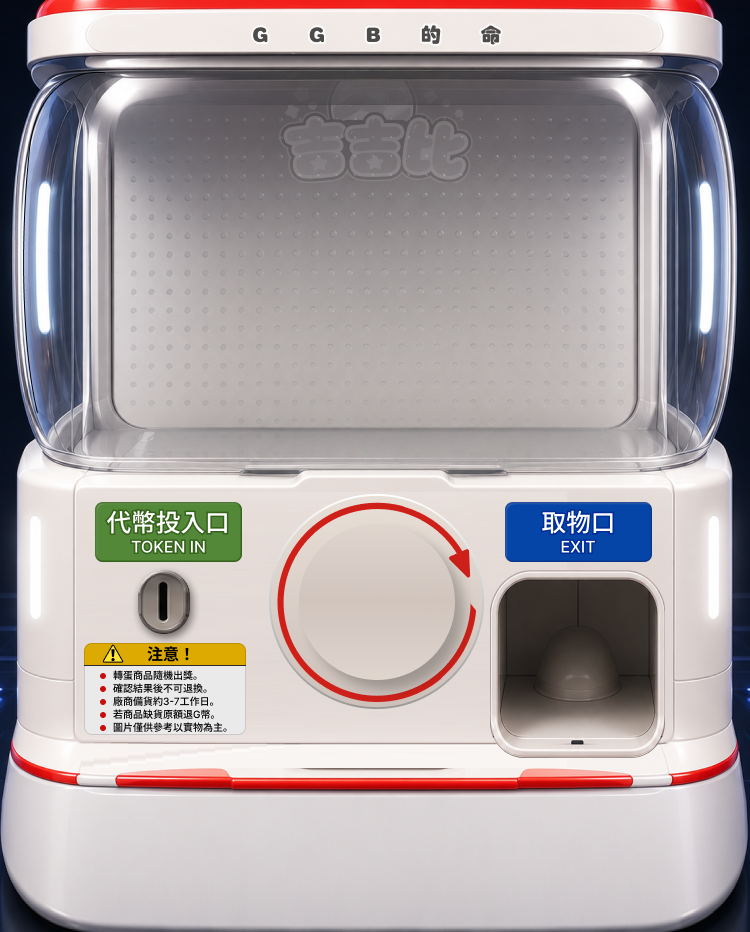
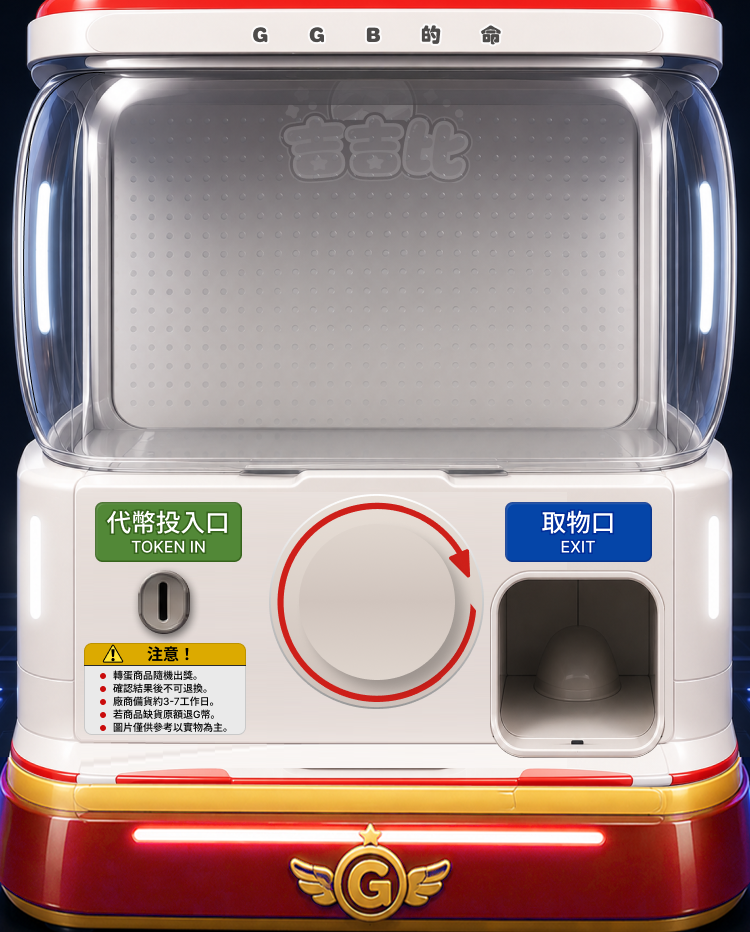
feat: 新機台圖給 gacha_mode2 並移除機台三顆按鈕改底部欄；蛋箱商品圖預設顯示、放大、無圓角；卡包輪播位置修正

Changed region(s): [[0.0, 0.809, 1.0, 1.0]]

diff --git a/frontend/components/shop/GachaProductDetail.tsx b/frontend/components/shop/GachaProductDetail.tsx
@@ -27,6 +27,9 @@ interface GachaProductDetailProps {
   onMachineReady?: () => void;
 }
 
+/** 機台本身不畫按鈕的主題 —— 推一下／立即轉蛋／試試看改走頁面底部操作欄 */
+const BUTTONLESS_THEMES = ['gacha_mode2', 'gacha_mode5']
+
 const MACHINE_COMPONENTS: Record<string, React.ComponentType<React.ComponentProps<typeof GachaMachineVisual>>> = {
   gacha_classic: GachaMachineVisual,
   gacha_modern: GachaMachineModern,
@@ -81,7 +84,8 @@ export function GachaProductDetail({ product, prizes, machineTheme, onMachineRea
   const [isPurchaseModalOpen, setIsPurchaseModalOpen] = useState(false);
   const [hasPendingResult, setHasPendingResult] = useState(false);
   const [isMachineLoaded, setIsMachineLoaded] = useState(false);
-  const [isEggBoxImageMode, setIsEggBoxImageMode] = useState(false);
+  // 商品圖預設顯示（老闆指定），點一下收起看蛋箱
+  const [isEggBoxImageMode, setIsEggBoxImageMode] = useState(true);
   const [forceGoldEgg, setForceGoldEgg] = useState(false);
 
   const animTimersRef = useRef<number[]>([]);
@@ -393,13 +397,6 @@ export function GachaProductDetail({ product, prizes, machineTheme, onMachineRea
       className="relative"
       style={{ width: 375, transform: `scale(${scale})`, transformOrigin: 'top center' }}
     >
-      {/* 點擊蛋箱提示 */}
-      <div
-        className="absolute left-1/2 -translate-x-1/2 flex items-center justify-center px-3 rounded-full text-center"
-        style={{ top: 221, height: 20, backgroundColor: 'rgba(0,0,0,0.6)', zIndex: 20, pointerEvents: 'none' }}
-      >
-        <span className="font-medium" style={{ color: '#FFFFFF', fontSize: 12 }}>點擊蛋箱顯示圖片</span>
-      </div>
       <div className="w-full max-w-[750px] mx-auto">
         <div className="relative w-full" style={{ aspectRatio: '750/932' }}>
           {(() => {
@@ -420,29 +417,23 @@ export function GachaProductDetail({ product, prizes, machineTheme, onMachineRea
               />
             );
           })()}
-          {/* 蛋箱圖片切換區 */}
-          <div className="absolute left-1/2 -translate-x-1/2" style={{ top: 42, width: 167, height: 167, zIndex: 20 }}>
-            <div className="relative w-full h-full">
-              <div
-                className="absolute inset-0 cursor-pointer"
-                style={{ opacity: isEggBoxImageMode ? 0 : 1, pointerEvents: isEggBoxImageMode ? 'none' : 'auto', transition: 'opacity 200ms ease-out' }}
-                onClick={() => { if (!product.id) return; setIsEggBoxImageMode(true); }}
+          {/* 蛋箱裡的商品圖：預設就顯示（老闆指定），點一下收起、再點一下又出現。
+              整塊維持可點擊 —— 收起後那層就是「再點一次」的目標，
+              不然圖藏起來之後玩家沒有東西可以點回來。 */}
+          {product.id && (
+            <div
+              className="absolute left-1/2 -translate-x-1/2 cursor-pointer"
+              style={{ top: 46, width: 232, height: 200, zIndex: 20 }}
+              onClick={() => setIsEggBoxImageMode(v => !v)}
+            >
+              <Image
+                src={product.image_url || `/images/item/${product.id.toString().padStart(5, '0')}.jpg`}
+                alt={product.name} fill className="object-contain"
+                style={{ opacity: isEggBoxImageMode ? 1 : 0, transition: 'opacity 200ms ease-out' }}
+                onError={(e) => { const t = e.target as HTMLImageElement; t.srcset = '/images/item.png'; t.src = '/images/item.png'; }}
               />
-              {product.id && (
-                <div
-                  className="absolute inset-0 flex items-center justify-center cursor-pointer"
-                  style={{ opacity: isEggBoxImageMode ? 1 : 0, pointerEvents: isEggBoxImageMode ? 'auto' : 'none', transition: 'opacity 200ms ease-out' }}
-                  onClick={() => setIsEggBoxImageMode(false)}
-                >
-                  <Image
-                    src={product.image_url || `/images/item/${product.id.toString().padStart(5, '0')}.jpg`}
-                    alt={product.name} fill className="rounded-lg object-fill"
-                    onError={(e) => { const t = e.target as HTMLImageElement; t.srcset = '/images/item.png'; t.src = '/images/item.png'; }}
-                  />
-                </div>
-              )}
             </div>
-          </div>
+          )}
         </div>
       </div>
     </div>
@@ -533,7 +524,7 @@ export function GachaProductDetail({ product, prizes, machineTheme, onMachineRea
 
       {/* mode5 的底部操作欄 —— 機台上不畫按鈕（老闆指定），三顆移到這裡。
           版型照盒玩立體機台 blindbox_mode5：左側單抽金額，右側三顆按鈕 */}
-      {machineTheme === 'gacha_mode5' && (
+      {BUTTONLESS_THEMES.includes(machineTheme ?? '') && (
         <div data-testid="bottom-action-bar" className="fixed bottom-0 left-0 right-0 z-40 border-t border-neutral-100 bg-white/90 pb-[env(safe-area-inset-bottom)] shadow-modal backdrop-blur-xl dark:border-neutral-800 dark:bg-neutral-900/90">
           <div className="mx-auto flex h-16 max-w-2xl items-center gap-3 px-4">
             <div className="flex h-full shrink-0 flex-col justify-center pl-1">

diff --git a/frontend/components/shop/GachaMachineMode2.tsx b/frontend/components/shop/GachaMachineMode2.tsx
@@ -1,10 +1,9 @@
 'use client';
 
-import React, { useEffect, useState, useRef, useCallback } from 'react';
+import React, { useEffect, useState, useRef } from 'react';
 import { playSfx, SFX } from '@/lib/sfx';
 import Image from 'next/image';
 import { motion, AnimatePresence } from 'framer-motion';
-import { ImageButton } from '@/components/ui/ImageButton';
 
 interface GachaMachineMode2Props {
   state: 'idle' | 'shaking' | 'spinning' | 'dropping' | 'waiting' | 'result';
@@ -40,9 +39,7 @@ interface Egg {
 export function GachaMachineMode2({
   state,
   shakeRepeats = 1,
-  onPush,
   onPurchase,
-  onTrial,
   onHoleClick,
   onLoaded,
   isSoldOut = false,
@@ -324,38 +321,9 @@ export function GachaMachineMode2({
         </div>
       </div>
 
-      {/* Buttons (same % positions as classic) */}
-      <ImageButton
-        src="/images/gacha/mode2/btn2.png"
-        alt="推一下"
-        text="推一下"
-        className={`absolute ${isSoldOut || disableButtons ? 'grayscale pointer-events-none' : ''}`}
-        textClassName="text-base md:text-lg"
-        style={{ left: '5.33%', top: '84.5%', width: '25.06%', height: '11.2%', zIndex: 20 }}
-        onClick={() => {
-          if (isSoldOut) return;
-          playSfx(SFX.gachaPush);
-          onPush?.();
-        }}
-      />
-      <ImageButton
-        src="/images/gacha/mode2/btn1.png"
-        alt="立即轉蛋"
-        text="立即轉蛋"
-        className={`absolute ${isSoldOut || disableButtons ? 'grayscale pointer-events-none' : ''}`}
-        textClassName="text-base md:text-lg"
-        style={{ left: '31.73%', top: '84.5%', width: '36.53%', height: '11.2%', zIndex: 20 }}
-        onClick={() => { if (!isSoldOut && !disableButtons && onPurchase) onPurchase(); }}
-      />
-      <ImageButton
-        src="/images/gacha/mode2/btn2.png"
-        alt="試試看"
-        text="試試看"
-        className={`absolute ${isSoldOut || disableButtons ? 'grayscale pointer-events-none' : ''}`}
-        textClassName="text-base md:text-lg"
-        style={{ left: '69.6%', top: '84.5%', width: '25.06%', height: '11.2%', zIndex: 20 }}
-        onClick={() => { if (!isSoldOut && !disableButtons && onTrial) onTrial(); }}
-      />
+      {/* 機台上不畫按鈕 —— 推一下／立即轉蛋／試試看改走商品頁底部操作欄
+          （老闆指定，新機台圖的底座是裝飾用的，沒有按鈕位）。
+          旋鈕仍可直接點擊轉蛋，那是機台本體的互動，不是按鈕。 */}
 
       {isSoldOut && (
         <div

diff --git a/frontend/app/item/[id]/page.tsx b/frontend/app/item/[id]/page.tsx
@@ -1387,10 +1387,10 @@ export default function ProductDetailPage() {
               )}
             </div>
 
-            {/* 卡包輪播：在機台上半部裡垂直置中（老闆指定）。
-                原本是靠 bottom: 40px 往上頂，機台底部的三顆按鈕拿掉之後
-                下半部空出來，整個看起來偏高 */}
-            <div className="absolute left-1/2 top-0 -translate-x-1/2 flex h-1/2 items-center justify-center" style={{ width: 375, zIndex: 10 }}>
+            {/* 卡包輪播：貼機台頂端，讓輪播自己的容器決定垂直位置（老闆實測）。
+                先前加 h-1/2 想「在上半部裡居中」，反而把它推得更高 ——
+                輪播內層有自己的 perspective 容器，外面再夾一層高度只會打架 */}
+            <div className="absolute left-1/2 top-0 -translate-x-1/2 flex items-center justify-center" style={{ width: 375, zIndex: 10 }}>
               <div className="relative w-full flex items-center justify-center">
                 <PackSelectionCarousel
                   cardScale={cardScale}

diff --git a/DEVLOG.md b/DEVLOG.md
@@ -4,6 +4,32 @@
 
 ---
 
+## v2026.08.10i｜2026-08-10｜新機台圖給 mode2 並移除機台上的三顆按鈕；蛋箱商品圖預設顯示
+
+### 釐清：新機台圖是給 gacha_mode2 的，不是給新模組
+上一版誤判成「新模組的圖存錯資料夾」，把它搬去 mode5 又把 mode2 還原。
+老闆截圖的 `/gacha/22`、`/gacha/37` 都沒設模組、吃全站預設 `gacha_mode2` ——
+他要移除按鈕的就是**那台**。新圖底座是紅金裝飾條、本來就沒有按鈕位。
+
+- 新圖放回 `gacha/mode2/main.png`
+- `GachaMachineMode2` 移除機台上的三顆 ImageButton（旋鈕仍可點擊轉蛋）
+- `GachaProductDetail` 的底部操作欄條件改成 `BUTTONLESS_THEMES`
+  （`gacha_mode2` / `gacha_mode5`），mode3／mode4／classic 維持機台內建按鈕
+- ⚠ 代價：`gacha/mode5/main.png` 原本那張紫金圖被覆蓋掉了（它從未進 git），
+  現在 mode2 與 mode5 是同一張圖。要區分的話得重新給 mode5 一張
+
+### 蛋箱裡的商品圖：預設顯示、放大、無圓角、點擊切換
+- 預設就顯示（原本要點才出現），點一下收起看蛋箱、再點一下又出現 ——
+  整塊維持可點擊，收起後那層就是「再點一次」的目標，不然圖藏起來就點不回來
+- 167×167 圓角方框 → 232×200 無圓角，`object-fill` 改 `object-contain`
+  （原本會把海報比例壓歪），位置調到蛋箱正中間不壓到機台面板
+- 「點擊蛋箱顯示圖片」膠囊移除
+
+### 卡包輪播位置修正
+上一版加 `h-1/2` 想「在上半部裡居中」，實際反而更偏上（老闆用 DevTools
+關掉 height 才是對的）。輪播內層自己有 perspective 容器，外面再夾一層固定
+高度只會打架。拿掉 `h-1/2`，位置交給輪播自己的容器決定。
+
 ## v2026.08.10h｜2026-08-10｜新轉蛋模組換圖；公平性警語列改貼底部；卡包輪播位置
 
 ### gacha_mode5 換上老闆改好的機台圖
